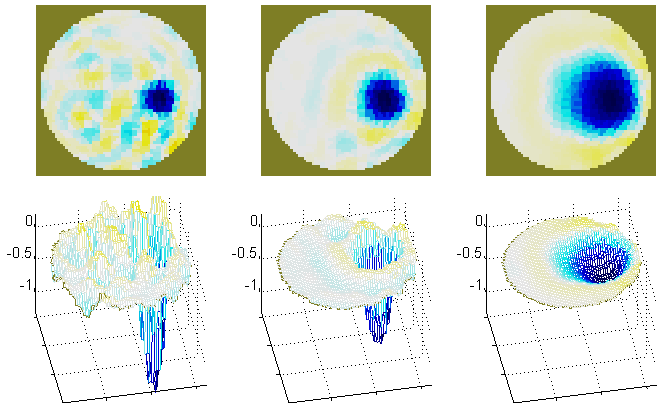
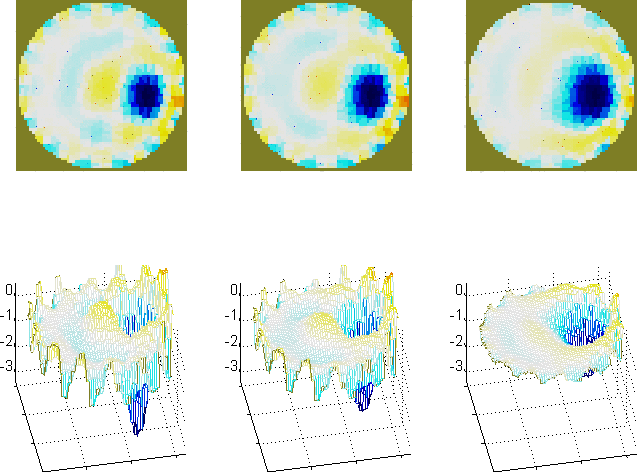
mods to get it working with IIRC
git-svn-id: svn+ssh://svn.code.sf.net/p/eidors3d/code/trunk@1520 82006732-fb7e-4a22-9f28-86a212cce563

diff --git a/htdocs/tutorial/EIDORS_basics/tutorial110a.m b/htdocs/tutorial/EIDORS_basics/tutorial110a.m
@@ -1,5 +1,5 @@
 % Basic Image reconstruction
-% $Id: tutorial110a.m,v 1.4 2007-09-04 15:26:02 aadler Exp $
+% $Id: tutorial110a.m,v 1.5 2008-07-22 20:46:29 aadler Exp $
 
 % Load some data
 load iirc_data_2006
@@ -9,15 +9,22 @@ calc_colours('greylev',-.1);
 
 % Get a 2D image reconstruction model
 imdl= mk_common_model('c2c');
+% Set stimulation patterns. Use meas_current
+% Stimulation of [1,0] (not [0,1]) is needed for this device (IIRC)
+imdl.fwd_model.stimulation = mk_stim_patterns(16,1,[1,0],[0,1],{'meas_current'},1);
+% Remove meas_select field because all 16x16 patterns are used
+imdl.fwd_model = rmfield( imdl.fwd_model, 'meas_select');
+
+
 vi= real(v_rotate(:,9))/1e4; vh= real(v_reference)/1e4;
 
 for idx= 1:3
    if     idx==1
-      imdl.hyperparameter.value= 1e-4;
+      imdl.hyperparameter.value= 1e-3;
    elseif idx==2
       imdl.hyperparameter.value= 3e-3;
    elseif idx==3
-      imdl.hyperparameter.value= 1e-1;
+      imdl.hyperparameter.value= 1e-2;
    end
    img= inv_solve(imdl, vh, vi);
 
@@ -30,8 +37,7 @@ for idx= 1:3
    h=mesh(z,c); view(-11,44);
    set(h,'CDataMapping','Direct');
    set(gca,{'XLim','YLim','ZLim','XTickLabel','YTickLabel'}, ...
-        {[1 64],[1 64],[-1.3,0.2],[],[]})
+        {[1 64],[1 64],[-3.3,0.5],[],[]})
 end
-
 
 print -r100 -dpng tutorial110a.png;
